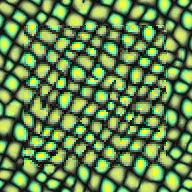
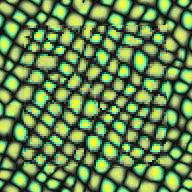
__addCacheEntry 增加wrap

diff --git a/PointCloudRetouch/OrderIndependentTextureSynthesizer.cpp b/PointCloudRetouch/OrderIndependentTextureSynthesizer.cpp
@@ -141,6 +141,12 @@ auto COrderIndependentTextureSynthesizer/*<Scalar_t, Channel>*/::__getCacheAt(in
 //template <typename Scalar_t, unsigned Channel>
 void COrderIndependentTextureSynthesizer/*<Scalar_t, Channel>*/::__addCacheEntry(int vLayer, int vGeneration, Eigen::Index vRowId, Eigen::Index vColId, const Texture_t::value_type& vValue)
 {
+	vLayer = std::clamp(vLayer, 0, m_PyramidLayer - 1);
+	vGeneration = std::clamp(vGeneration, 0, m_GenerationNum - 1);
+	const auto& Texture = m_Cache[vLayer][vGeneration];
+
+	__wrap(Texture.rows(), vRowId);
+	__wrap(Texture.cols(), vColId);
 	m_Cache[vLayer][vGeneration].coeffRef(vRowId, vColId) = vValue;
 }
 
